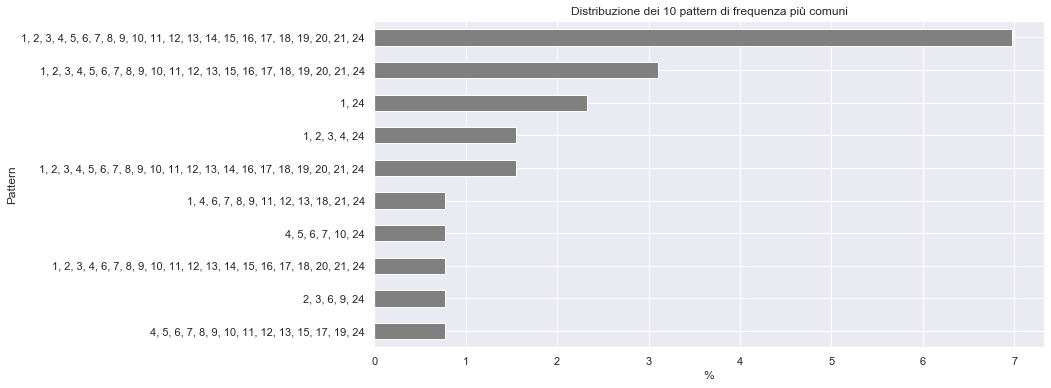
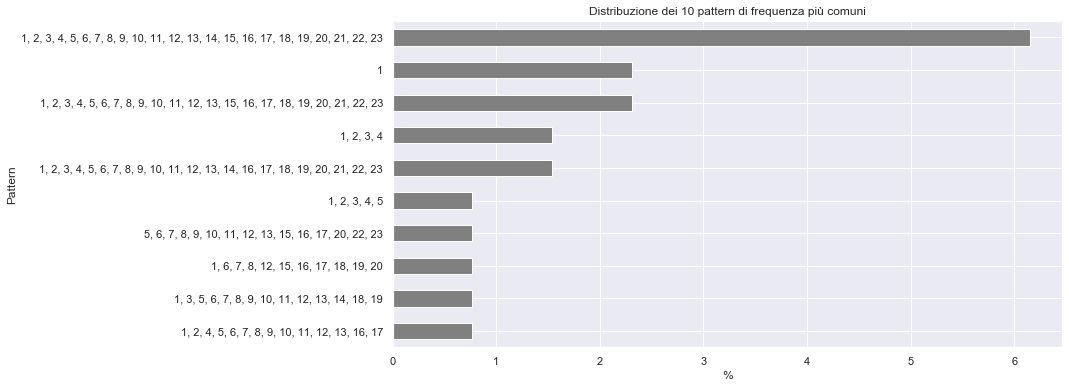
Updated with last lecture

diff --git a/sito/diario.rst b/sito/diario.rst
@@ -12,7 +12,7 @@ costituisce il programma d'esame *de facto*), che alle lezioni **ancora da
 svolgere**, per le quali è *da intendersi del tutto indicativo* (sia riguardo
 alle date che al contenuto).
 
-Sono disponibili alcune `statistiche sulla frequenza <frequenze.html>`__ alle lezioni. 
+Sono disponibili alcune `statistiche sulla frequenza <frequenze.html>`__ alle lezioni.
 
 Il materiale didattico indicato come *PDJ* si riferisce al libro di testo
 `Program Development in Java
@@ -26,13 +26,6 @@ in fine il materiale indicato con *H* si riferisce agli handout (siano essi
 :ref:`numeri di sezione <numeridisezione>` che reca indicazioni su quali parti
 del materiale sono **parte del programma** e quali *letture consigliate, ma
 facoltative*.
-
-.. admonition:: Avviso
-   :class: alert alert-success
-
-   L'**ultima lezione** è anticipata da venerdì 17/1 a **giovedì 16/1 dalle
-   ore 9:30 alle ore 12:30** nelle aule *Lambda* e *Gamma* (via Celoria, 18);
-   la lezione sarà costituita da una **simulazione d'esame in laboratorio**.
 
 |
 
@@ -88,7 +81,7 @@ facoltative*.
    +-------+------------+--------------------------------------------------------------+-------------------------------------------------------------------------+
    | 22    | Ven 10/1   | Tra progetto ed implementazione                              | PDJ 14 *1*; `H 23`_                                                     |
    |       |            |                                                              +-------------------------------------------------------------------------+
-   | 23    | Mar 14/1   |                                                              | PDJ 14 *2, 3*                                                           |
+   | 23    | Mar 14/1   |                                                              | PDJ 14 *2, 3*; `H 24a`_, `H 24b`_                                       |
    +-------+------------+--------------------------------------------------------------+-------------------------------------------------------------------------+
    | 24    | Gio 16/1   | **Simulazione d'esame**                                      |                                                                         |
    +-------+------------+--------------------------------------------------------------+-------------------------------------------------------------------------+
@@ -140,6 +133,8 @@ facoltative*.
 .. _JUnit: https://junit.org/
 .. _Rice Theorem: https://www.dcc.fc.up.pt/~acm/ricep.pdf
 .. _H 23: https://nbviewer.jupyter.org/github/prog2-unimi/handouts/blob/master/L23.ipynb
+.. _H 24a: https://nbviewer.jupyter.org/github/prog2-unimi/handouts/blob/master/L24.ipynb
+.. _H 24b: https://github.com/prog2-unimi/handouts/tree/master/src/it/unimi/di/prog2/l24
 
 .. admonition:: Nota bene
    :class: alert alert-secondary

diff --git a/sito/frequenze.md b/sito/frequenze.md
@@ -8,7 +8,7 @@ Questa pagina contiene una analisi *aggregata* delle informazioni riguardanti la
 
 Il primo grafico riporta il numero assoluto di studenti presenti 
 per ciascuna lezione che si è svolta alla data odierna, in media
-sono stati presenti **73.66** (σ=16.05) studenti.
+sono stati presenti **72.04** (σ=16.32) studenti.
 
 
 
@@ -21,7 +21,7 @@ sono stati presenti **73.66** (σ=16.05) studenti.
 
 
 Il grafico seguente riporta la percentuale degli studenti (rispetto al numero 
-totale **129** di studenti che hanno assistito ad almeno una lezione), che sono stati 
+totale **130** di studenti che hanno assistito ad almeno una lezione), che sono stati 
 presenti ad un dato numero di lezioni.
 
 
@@ -46,15 +46,6 @@ Risulta interessante *classificare* i pattern di presenza, cercando di dedurre d
 
 Tale classificazione è evidentemente arbitraria, ma offre nondimeno una ragionevole interpretazione dei dati raccolti. Il grafico seguente mostra le frequenze dei vari tipi di studenti.
 
-    /Users/santini/.local/share/dir-venv/f9ff2d2596abdb66cb97e5ab34e93dbb-drafts/lib/python3.7/site-packages/ipykernel_launcher.py:5: FutureWarning: 
-    Passing list-likes to .loc or [] with any missing label will raise
-    KeyError in the future, you can use .reindex() as an alternative.
-    
-    See the documentation here:
-    https://pandas.pydata.org/pandas-docs/stable/user_guide/indexing.html#deprecate-loc-reindex-listlike
-      """
 
-
-
-![png](frequenze_files/frequenze_15_1.png)
+![png](frequenze_files/frequenze_15_0.png)
 
